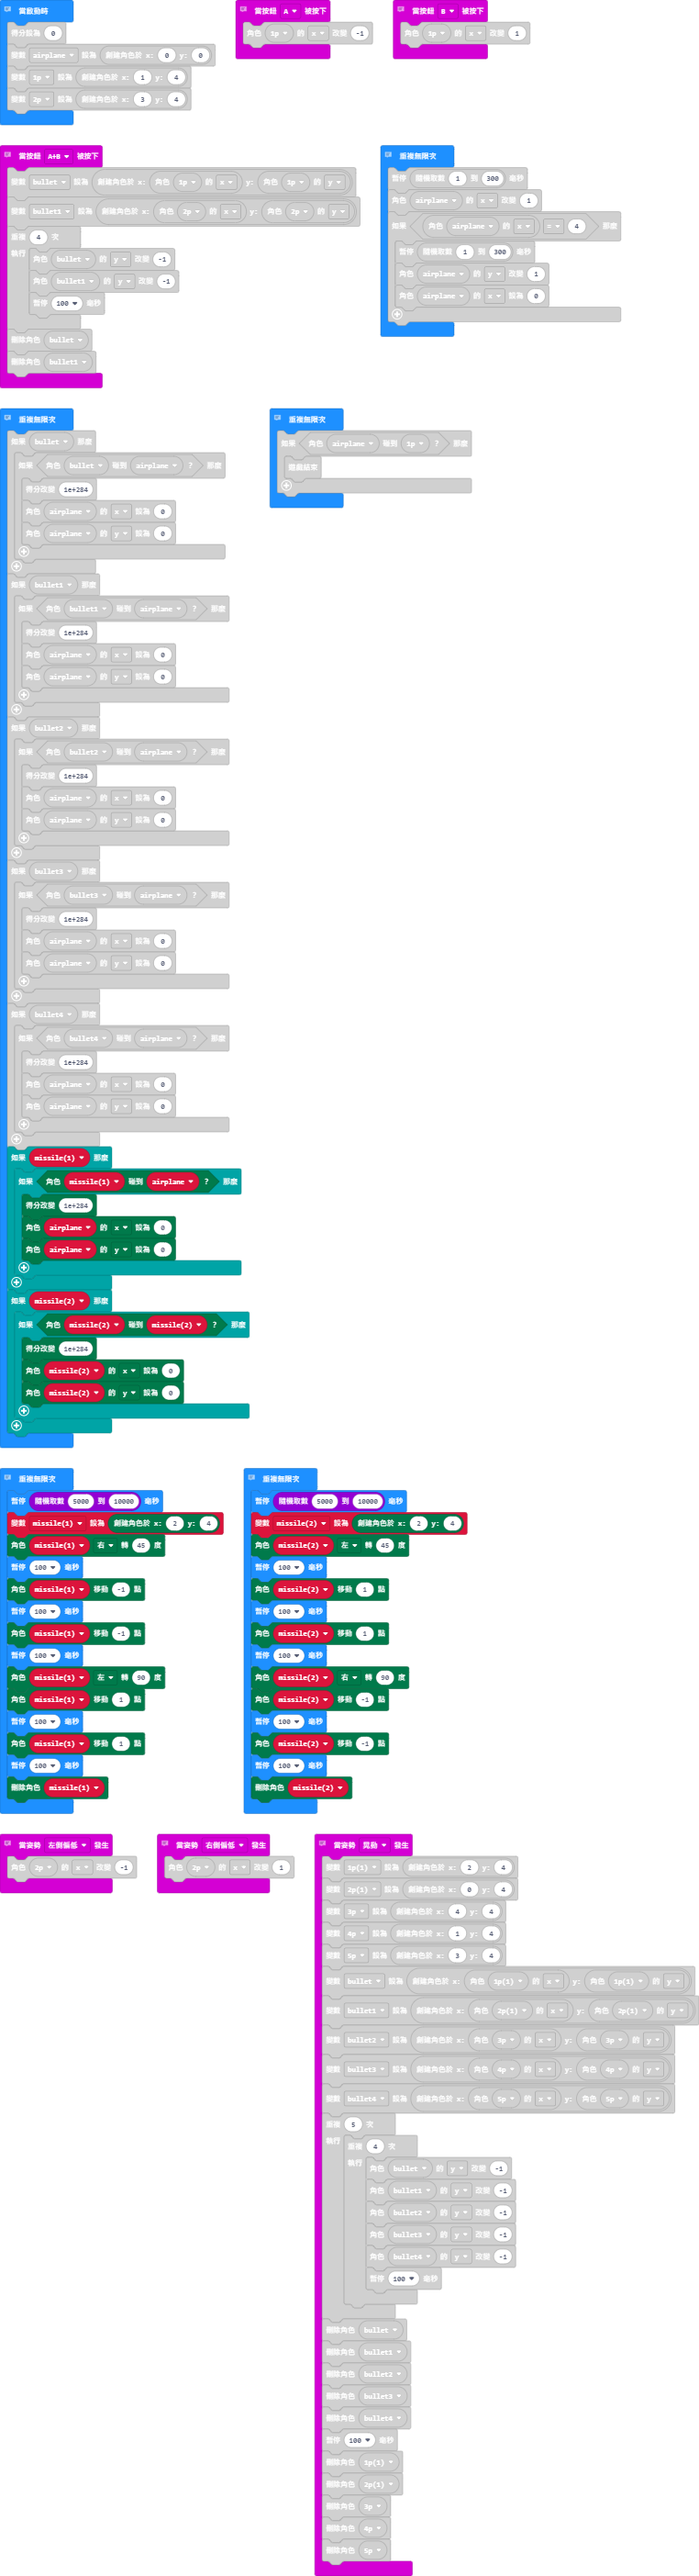
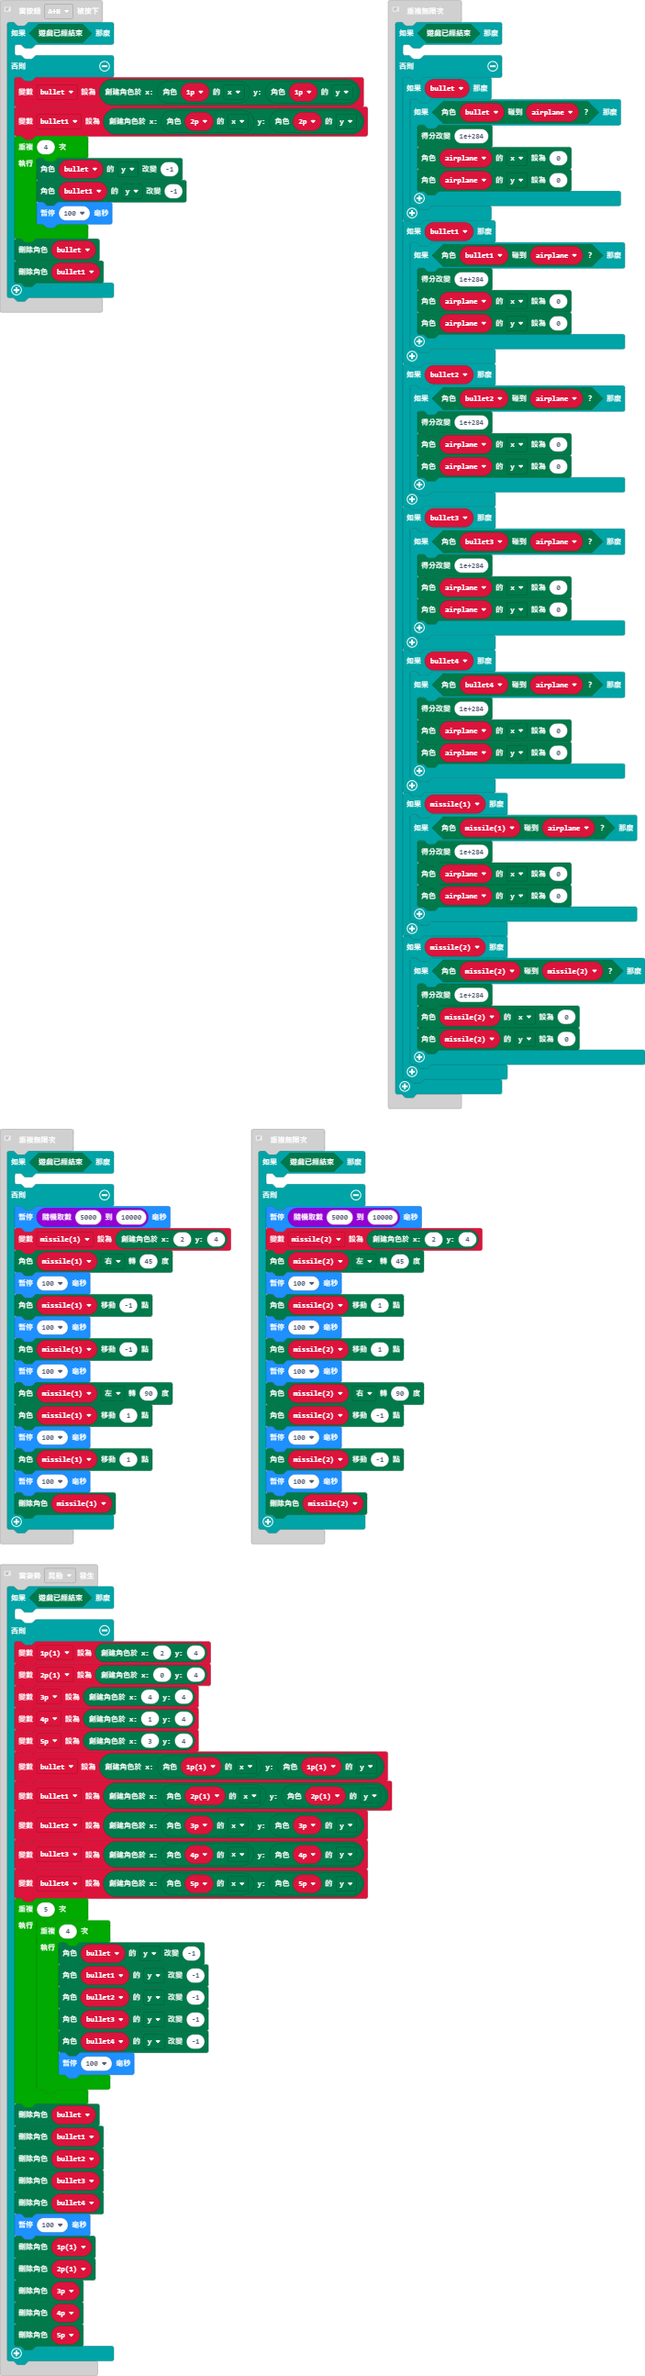
更新 main.blocks, main.ts

diff --git a/main.ts b/main.ts
@@ -8,49 +8,57 @@ input.onButtonPressed(Button.A, function () {
 })
 // 1、2、3、4、5P五連發
 input.onGesture(Gesture.Shake, function () {
-    _1p1 = game.createSprite(2, 4)
-    _2p1 = game.createSprite(0, 4)
-    _3p = game.createSprite(4, 4)
-    _4p = game.createSprite(1, 4)
-    _5p = game.createSprite(3, 4)
-    bullet = game.createSprite(_1p1.get(LedSpriteProperty.X), _1p1.get(LedSpriteProperty.Y))
-    bullet1 = game.createSprite(_2p1.get(LedSpriteProperty.X), _2p1.get(LedSpriteProperty.Y))
-    bullet2 = game.createSprite(_3p.get(LedSpriteProperty.X), _3p.get(LedSpriteProperty.Y))
-    bullet3 = game.createSprite(_4p.get(LedSpriteProperty.X), _4p.get(LedSpriteProperty.Y))
-    bullet4 = game.createSprite(_5p.get(LedSpriteProperty.X), _5p.get(LedSpriteProperty.Y))
-    for (let index = 0; index < 5; index++) {
-        for (let index = 0; index < 4; index++) {
-            bullet.change(LedSpriteProperty.Y, -1)
-            bullet1.change(LedSpriteProperty.Y, -1)
-            bullet2.change(LedSpriteProperty.Y, -1)
-            bullet3.change(LedSpriteProperty.Y, -1)
-            bullet4.change(LedSpriteProperty.Y, -1)
-            basic.pause(100)
+    if (game.isGameOver()) {
+    	
+    } else {
+        _1p1 = game.createSprite(2, 4)
+        _2p1 = game.createSprite(0, 4)
+        _3p = game.createSprite(4, 4)
+        _4p = game.createSprite(1, 4)
+        _5p = game.createSprite(3, 4)
+        bullet = game.createSprite(_1p1.get(LedSpriteProperty.X), _1p1.get(LedSpriteProperty.Y))
+        bullet1 = game.createSprite(_2p1.get(LedSpriteProperty.X), _2p1.get(LedSpriteProperty.Y))
+        bullet2 = game.createSprite(_3p.get(LedSpriteProperty.X), _3p.get(LedSpriteProperty.Y))
+        bullet3 = game.createSprite(_4p.get(LedSpriteProperty.X), _4p.get(LedSpriteProperty.Y))
+        bullet4 = game.createSprite(_5p.get(LedSpriteProperty.X), _5p.get(LedSpriteProperty.Y))
+        for (let index = 0; index < 5; index++) {
+            for (let index = 0; index < 4; index++) {
+                bullet.change(LedSpriteProperty.Y, -1)
+                bullet1.change(LedSpriteProperty.Y, -1)
+                bullet2.change(LedSpriteProperty.Y, -1)
+                bullet3.change(LedSpriteProperty.Y, -1)
+                bullet4.change(LedSpriteProperty.Y, -1)
+                basic.pause(100)
+            }
         }
+        bullet.delete()
+        bullet1.delete()
+        bullet2.delete()
+        bullet3.delete()
+        bullet4.delete()
+        basic.pause(100)
+        _1p1.delete()
+        _2p1.delete()
+        _3p.delete()
+        _4p.delete()
+        _5p.delete()
     }
-    bullet.delete()
-    bullet1.delete()
-    bullet2.delete()
-    bullet3.delete()
-    bullet4.delete()
-    basic.pause(100)
-    _1p1.delete()
-    _2p1.delete()
-    _3p.delete()
-    _4p.delete()
-    _5p.delete()
 })
 // 1P+2P攻
 input.onButtonPressed(Button.AB, function () {
-    bullet = game.createSprite(_1p.get(LedSpriteProperty.X), _1p.get(LedSpriteProperty.Y))
-    bullet1 = game.createSprite(_2p.get(LedSpriteProperty.X), _2p.get(LedSpriteProperty.Y))
-    for (let index = 0; index < 4; index++) {
-        bullet.change(LedSpriteProperty.Y, -1)
-        bullet1.change(LedSpriteProperty.Y, -1)
-        basic.pause(100)
+    if (game.isGameOver()) {
+    	
+    } else {
+        bullet = game.createSprite(_1p.get(LedSpriteProperty.X), _1p.get(LedSpriteProperty.Y))
+        bullet1 = game.createSprite(_2p.get(LedSpriteProperty.X), _2p.get(LedSpriteProperty.Y))
+        for (let index = 0; index < 4; index++) {
+            bullet.change(LedSpriteProperty.Y, -1)
+            bullet1.change(LedSpriteProperty.Y, -1)
+            basic.pause(100)
+        }
+        bullet.delete()
+        bullet1.delete()
     }
-    bullet.delete()
-    bullet1.delete()
 })
 // 1P右
 input.onButtonPressed(Button.B, function () {
@@ -91,53 +99,57 @@ basic.forever(function () {
 })
 // 分數計算
 basic.forever(function () {
-    if (bullet) {
-        if (bullet.isTouching(airplane)) {
-            game.addScore(1e+284)
-            airplane.set(LedSpriteProperty.X, 0)
-            airplane.set(LedSpriteProperty.Y, 0)
+    if (game.isGameOver()) {
+    	
+    } else {
+        if (bullet) {
+            if (bullet.isTouching(airplane)) {
+                game.addScore(1e+284)
+                airplane.set(LedSpriteProperty.X, 0)
+                airplane.set(LedSpriteProperty.Y, 0)
+            }
         }
-    }
-    if (bullet1) {
-        if (bullet1.isTouching(airplane)) {
-            game.addScore(1e+284)
-            airplane.set(LedSpriteProperty.X, 0)
-            airplane.set(LedSpriteProperty.Y, 0)
+        if (bullet1) {
+            if (bullet1.isTouching(airplane)) {
+                game.addScore(1e+284)
+                airplane.set(LedSpriteProperty.X, 0)
+                airplane.set(LedSpriteProperty.Y, 0)
+            }
         }
-    }
-    if (bullet2) {
-        if (bullet2.isTouching(airplane)) {
-            game.addScore(1e+284)
-            airplane.set(LedSpriteProperty.X, 0)
-            airplane.set(LedSpriteProperty.Y, 0)
+        if (bullet2) {
+            if (bullet2.isTouching(airplane)) {
+                game.addScore(1e+284)
+                airplane.set(LedSpriteProperty.X, 0)
+                airplane.set(LedSpriteProperty.Y, 0)
+            }
         }
-    }
-    if (bullet3) {
-        if (bullet3.isTouching(airplane)) {
-            game.addScore(1e+284)
-            airplane.set(LedSpriteProperty.X, 0)
-            airplane.set(LedSpriteProperty.Y, 0)
+        if (bullet3) {
+            if (bullet3.isTouching(airplane)) {
+                game.addScore(1e+284)
+                airplane.set(LedSpriteProperty.X, 0)
+                airplane.set(LedSpriteProperty.Y, 0)
+            }
         }
-    }
-    if (bullet4) {
-        if (bullet4.isTouching(airplane)) {
-            game.addScore(1e+284)
-            airplane.set(LedSpriteProperty.X, 0)
-            airplane.set(LedSpriteProperty.Y, 0)
+        if (bullet4) {
+            if (bullet4.isTouching(airplane)) {
+                game.addScore(1e+284)
+                airplane.set(LedSpriteProperty.X, 0)
+                airplane.set(LedSpriteProperty.Y, 0)
+            }
         }
-    }
-    if (missile1) {
-        if (missile1.isTouching(airplane)) {
-            game.addScore(1e+284)
-            airplane.set(LedSpriteProperty.X, 0)
-            airplane.set(LedSpriteProperty.Y, 0)
+        if (missile1) {
+            if (missile1.isTouching(airplane)) {
+                game.addScore(1e+284)
+                airplane.set(LedSpriteProperty.X, 0)
+                airplane.set(LedSpriteProperty.Y, 0)
+            }
         }
-    }
-    if (missile2) {
-        if (missile2.isTouching(missile2)) {
-            game.addScore(1e+284)
-            missile2.set(LedSpriteProperty.X, 0)
-            missile2.set(LedSpriteProperty.Y, 0)
+        if (missile2) {
+            if (missile2.isTouching(missile2)) {
+                game.addScore(1e+284)
+                missile2.set(LedSpriteProperty.X, 0)
+                missile2.set(LedSpriteProperty.Y, 0)
+            }
         }
     }
 })
@@ -149,35 +161,43 @@ basic.forever(function () {
 })
 // 導彈(1)
 basic.forever(function () {
-    basic.pause(randint(5000, 10000))
-    missile1 = game.createSprite(2, 4)
-    missile1.turn(Direction.Right, 45)
-    basic.pause(100)
-    missile1.move(-1)
-    basic.pause(100)
-    missile1.move(-1)
-    basic.pause(100)
-    missile1.turn(Direction.Left, 90)
-    missile1.move(1)
-    basic.pause(100)
-    missile1.move(1)
-    basic.pause(100)
-    missile1.delete()
+    if (game.isGameOver()) {
+    	
+    } else {
+        basic.pause(randint(5000, 10000))
+        missile1 = game.createSprite(2, 4)
+        missile1.turn(Direction.Right, 45)
+        basic.pause(100)
+        missile1.move(-1)
+        basic.pause(100)
+        missile1.move(-1)
+        basic.pause(100)
+        missile1.turn(Direction.Left, 90)
+        missile1.move(1)
+        basic.pause(100)
+        missile1.move(1)
+        basic.pause(100)
+        missile1.delete()
+    }
 })
 // 導彈(2)
 basic.forever(function () {
-    basic.pause(randint(5000, 10000))
-    missile2 = game.createSprite(2, 4)
-    missile2.turn(Direction.Left, 45)
-    basic.pause(100)
-    missile2.move(1)
-    basic.pause(100)
-    missile2.move(1)
-    basic.pause(100)
-    missile2.turn(Direction.Right, 90)
-    missile2.move(-1)
-    basic.pause(100)
-    missile2.move(-1)
-    basic.pause(100)
-    missile2.delete()
+    if (game.isGameOver()) {
+    	
+    } else {
+        basic.pause(randint(5000, 10000))
+        missile2 = game.createSprite(2, 4)
+        missile2.turn(Direction.Left, 45)
+        basic.pause(100)
+        missile2.move(1)
+        basic.pause(100)
+        missile2.move(1)
+        basic.pause(100)
+        missile2.turn(Direction.Right, 90)
+        missile2.move(-1)
+        basic.pause(100)
+        missile2.move(-1)
+        basic.pause(100)
+        missile2.delete()
+    }
 })
